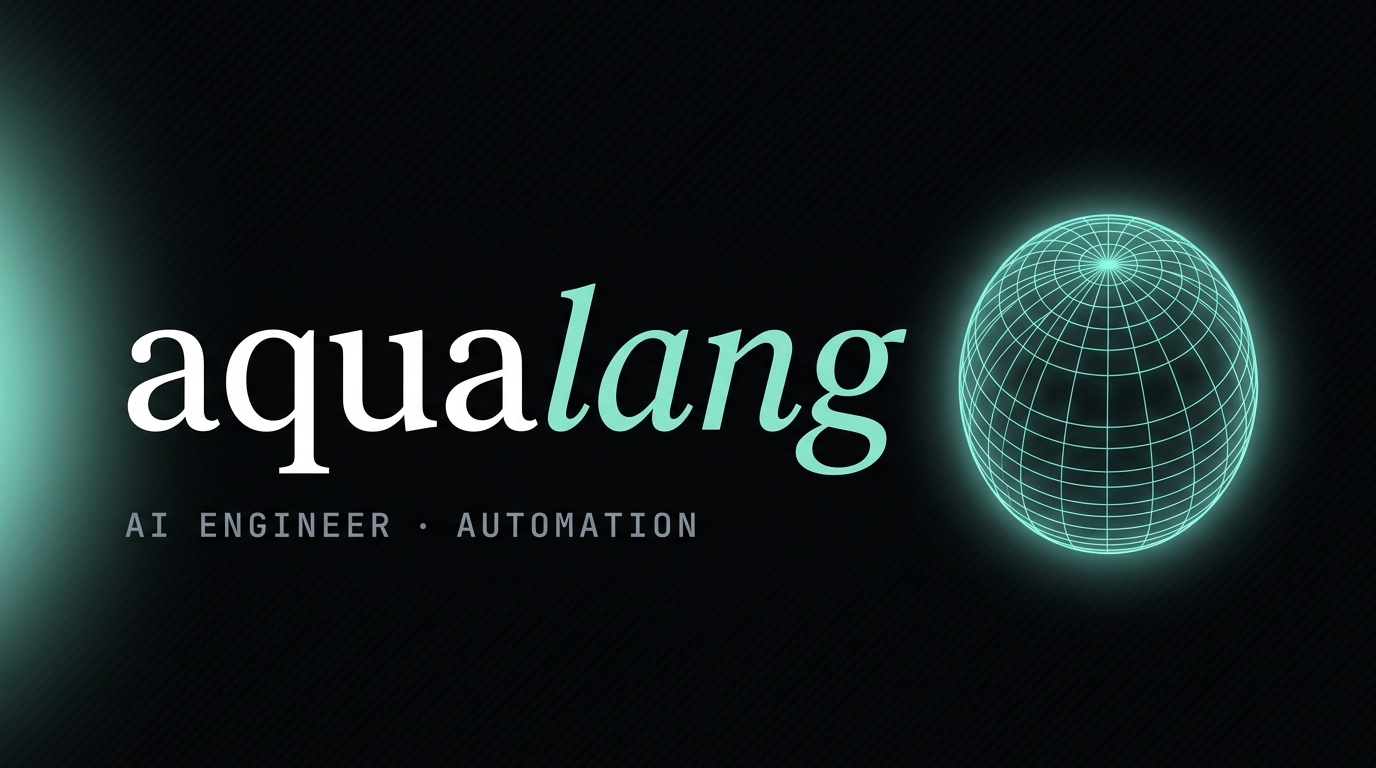
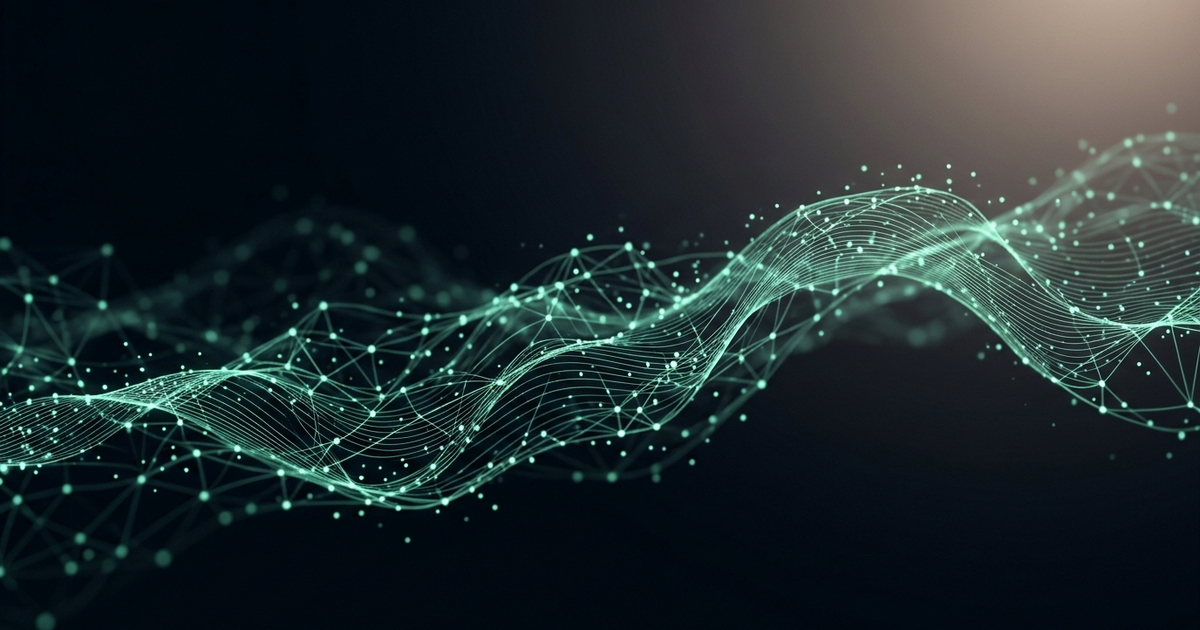
aqualang.pro: OpenRouter migration, security hardening, new assets
- api/chat.js: migrate Perplexity → OpenRouter (claude-3.5-sonnet default)
- vercel.json: add HSTS header
- SEO: hreflang, preconnect, JSON-LD image+knowsAbout
- Regenerate OG image (1200×630) and favicon via deGenAI
- Replace contact form with direct Telegram/email links
- Increase RU/EN touch targets to 44px
- Update sitemap dates

diff --git a/index.html b/index.html
@@ -10,6 +10,9 @@
 <meta name="theme-color" content="#0A0C0F" />
 <meta name="color-scheme" content="dark" />
 <link rel="canonical" href="https://aqualang.pro/" />
+<link rel="alternate" hreflang="ru" href="https://aqualang.pro/" />
+<link rel="alternate" hreflang="en" href="https://aqualang.pro/" />
+<link rel="alternate" hreflang="x-default" href="https://aqualang.pro/" />
 
 <meta property="og:type" content="website" />
 <meta property="og:url" content="https://aqualang.pro/" />
@@ -26,8 +29,9 @@
 <meta name="twitter:description" content="Сайты, ИИ-чаты, ассистенты, автоматизация. Прототип за 48 часов." />
 <meta name="twitter:image" content="https://aqualang.pro/og.png" />
 
-<link rel="icon" href="/favicon.svg" type="image/svg+xml" />
-<link rel="apple-touch-icon" href="/favicon.svg" />
+<link rel="icon" href="/favicon.png" type="image/png" />
+<link rel="apple-touch-icon" href="/apple-touch-icon.png" />
+<link rel="preconnect" href="https://cdn.jsdelivr.net" crossorigin />
 
 <link rel="preload" href="/fonts/lora.css" as="style" onload="this.onload=null;this.rel='stylesheet'">
 <noscript><link rel="stylesheet" href="/fonts/lora.css"></noscript>
@@ -45,7 +49,9 @@
   "url": "https://aqualang.pro",
   "jobTitle": "AI Engineer",
   "description": "ИИ-инженер: сайты под ключ, ИИ-чаты по каталогу, ассистенты с памятью, SMM-автоматизация",
-  "sameAs": ["https://t.me/aqualang"]
+  "image": "https://aqualang.pro/og.png",
+  "sameAs": ["https://t.me/aqualang"],
+  "knowsAbout": ["Веб-разработка", "ИИ-чатботы", "Автоматизация бизнеса", "SMM", "GPT", "Claude"]
 }
 </script>
 </head>
@@ -369,67 +375,16 @@
 
 <section class="contact" id="contact">
   <div class="contact-bg"><div class="big">aqua</div></div>
-  <div class="contact-grid">
+  <div class="contact-grid" style="grid-template-columns:1fr;max-width:900px">
     <div>
-      <div class="mono fade" style="margin-bottom:24px">(06) <span data-ru="Заявка" data-en="Brief">Заявка</span></div>
-      <h2 class="mask-line"><span data-ru="Напишите &nbsp;<i class='it'>письмо.</i>" data-en="Send the &nbsp;<i class='it'>brief.</i>">Напишите <span class="it">письмо.</span></span></h2>
-      <form class="form" id="briefForm" novalidate>
-        <div class="field">
-          <label data-ru="Как обращаться" data-en="Your name">Как обращаться</label>
-          <input type="text" name="name" placeholder="Алексей" autocomplete="name" />
-        </div>
-        <div class="field">
-          <label>Telegram / e-mail</label>
-          <input type="text" name="contact" placeholder="@username" autocomplete="email" required />
-        </div>
-        <div class="field">
-          <label data-ru="Что нужно" data-en="What you need">Что нужно</label>
-          <div class="pills" id="pills">
-            <button type="button" class="pill on" data-ru="Сайт" data-en="Website">Сайт</button>
-            <button type="button" class="pill" data-ru="Чат / бот" data-en="Chat / bot">Чат / бот</button>
-            <button type="button" class="pill" data-ru="Ассистент" data-en="Assistant">Ассистент</button>
-            <button type="button" class="pill" data-ru="Контент (визуал, видео)" data-en="Content (visual, video)">Контент (визуал, видео)</button>
-            <button type="button" class="pill" data-ru="SMM-авто" data-en="SMM auto">SMM-авто</button>
-            <button type="button" class="pill" data-ru="Что-то ещё" data-en="Other">Что-то ещё</button>
-          </div>
-        </div>
-        <div class="field">
-          <label data-ru="Кратко о задаче" data-en="Brief">Кратко о задаче</label>
-          <textarea name="brief" placeholder="..."></textarea>
-        </div>
-        <label class="consent">
-          <input type="checkbox" name="consent" required />
-          <span data-ru="Даю <a href='/consent' target='_blank' rel='noopener'>согласие на обработку</a> моих данных в соответствии с <a href='/privacy' target='_blank' rel='noopener'>политикой</a>" data-en="I give <a href='/consent' target='_blank' rel='noopener'>consent to data processing</a> in accordance with the <a href='/privacy' target='_blank' rel='noopener'>policy</a>">Даю <a href="/consent" target="_blank" rel="noopener">согласие на обработку</a> моих данных в соответствии с <a href="/privacy" target="_blank" rel="noopener">политикой</a></span>
-        </label>
-        <button type="submit" class="submit" data-magnetic data-hover="отправить">
-          <span data-ru="Отправить" data-en="Send">Отправить</span>
-          <span class="arr">→</span>
-        </button>
-        <div class="form-status" aria-live="polite"></div>
-      </form>
-    </div>
-    <div class="contact-side">
-      <div>
-        <div class="row" style="margin-bottom:32px">
-          <div class="l" data-ru="Прямой контакт" data-en="Direct">Прямой контакт</div>
-          <div class="v">@<span class="it">aqualang</span></div>
-        </div>
-        <div class="row" style="margin-bottom:32px">
-          <div class="l" data-ru="Почта" data-en="Email">Почта</div>
-          <a class="v" href="mailto:[email redacted]">aqualangpro@<span class="it">gmail</span>.com</a>
-        </div>
-        <div class="row">
-          <div class="l" data-ru="Время ответа" data-en="Response time">Время ответа</div>
-          <div class="v"><span class="it">≈</span> 1–4 ч</div>
-        </div>
-        <div class="socials" style="margin-top:32px">
-          <a href="https://t.me/aqualang" target="_blank" rel="noopener" data-magnetic>Telegram ↗</a>
-        </div>
+      <div class="mono fade" style="margin-bottom:24px">(06) <span data-ru="Контакт" data-en="Contact">Контакт</span></div>
+      <h2 class="mask-line"><span data-ru="Напишите &nbsp;<i class='it'>мне.</i>" data-en="Get in &nbsp;<i class='it'>touch.</i>">Напишите <span class="it">мне.</span></span></h2>
+      <div style="margin-top:48px;display:flex;flex-direction:column;gap:20px;align-items:flex-start">
+        <a href="https://t.me/aqualang" target="_blank" rel="noopener" class="hero-cta" data-magnetic>Telegram ↗</a>
+        <a href="mailto:[email redacted]" class="hero-cta" data-magnetic>aqualangpro@<span class="it">gmail</span>.com</a>
       </div>
-      <div class="clock">
-        <div><span class="dot"></span> <span data-ru="на связи" data-en="online">на связи</span></div>
-        <div id="clock2">— — : — —</div>
-        <div>MSK · UTC+3</div>
+      <div style="margin-top:32px;color:var(--fg-3);font-size:14px;line-height:1.6">
+        <span data-ru="Время ответа ≈ 1–4 часа. MSK · UTC+3" data-en="Reply time ≈ 1–4 hours. MSK · UTC+3">Время ответа ≈ 1–4 часа. MSK · UTC+3</span>
       </div>
     </div>
   </div>
@@ -485,6 +440,6 @@
 </script>
 <script src="/scripts/main.js" defer></script>
 <script src="/scripts/chat-widget.js" defer></script>
-<script src="/scripts/form.js" defer></script>
+
 </body>
 </html>

diff --git a/api/chat.js b/api/chat.js
@@ -56,9 +56,9 @@ export default async function handler(req, res) {
     return;
   }
 
-  const apiKey = process.env.PERPLEXITY_API_KEY;
+  const apiKey = process.env.OPENROUTER_API_KEY;
   if (!apiKey) {
-    res.status(500).json({ error: 'PERPLEXITY_API_KEY not set' });
+    res.status(500).json({ error: 'OPENROUTER_API_KEY not set' });
     return;
   }
 
@@ -68,21 +68,23 @@ export default async function handler(req, res) {
     .map(m => ({ role: m.role, content: m.content.slice(0, 2000) }));
 
   try {
-    const r = await fetch('https://api.perplexity.ai/chat/completions', {
+    const r = await fetch('https://openrouter.ai/api/v1/chat/completions', {
       method: 'POST',
       headers: {
         Authorization: `Bearer ${apiKey}`,
-        'Content-Type': 'application/json'
+        'Content-Type': 'application/json',
+        'HTTP-Referer': 'https://aqualang.pro',
+        'X-Title': 'aqualang.pro'
       },
       body: JSON.stringify({
-        model: 'sonar-pro',
+        model: process.env.OPENROUTER_MODEL || 'anthropic/claude-3.5-sonnet',
         messages: [{ role: 'system', content: SYSTEM_PROMPT }, ...safeMessages]
       })
     });
 
     if (!r.ok) {
       const txt = await r.text();
-      console.error('perplexity', r.status, txt);
+      console.error('openrouter', r.status, txt);
       res.status(502).json({ error: 'AI request failed' });
       return;
     }

diff --git a/404.html b/404.html
@@ -6,7 +6,7 @@
 <title>404 — страница не найдена · aqualang</title>
 <meta name="robots" content="noindex" />
 <meta name="theme-color" content="#0A0C0F" />
-<link rel="icon" href="/favicon.svg" type="image/svg+xml" />
+<link rel="icon" href="/favicon.png" type="image/png" />
 <link rel="stylesheet" href="/fonts/lora.css">
 <link rel="stylesheet" href="/styles/base.css" />
 <style>

diff --git a/consent.html b/consent.html
@@ -8,7 +8,7 @@
 <meta name="robots" content="noindex,follow" />
 <meta name="theme-color" content="#0A0C0F" />
 <link rel="canonical" href="https://aqualang.pro/consent" />
-<link rel="icon" href="/favicon.svg" type="image/svg+xml" />
+<link rel="icon" href="/favicon.png" type="image/png" />
 <link rel="stylesheet" href="/fonts/lora.css">
 <link rel="stylesheet" href="/styles/base.css" />
 <style>

diff --git a/privacy.html b/privacy.html
@@ -8,7 +8,7 @@
 <meta name="robots" content="noindex,follow" />
 <meta name="theme-color" content="#0A0C0F" />
 <link rel="canonical" href="https://aqualang.pro/privacy" />
-<link rel="icon" href="/favicon.svg" type="image/svg+xml" />
+<link rel="icon" href="/favicon.png" type="image/png" />
 <link rel="stylesheet" href="/fonts/lora.css">
 <link rel="stylesheet" href="/styles/base.css" />
 <style>

diff --git a/styles/layout.css b/styles/layout.css
@@ -21,7 +21,7 @@ nav.top .links a::after{content:"";position:absolute;left:0;right:0;bottom:-4px;
 nav.top .links a:hover::after{transform:scaleX(1)}
 nav.top .right{display:flex;gap:18px;align-items:center}
 nav.top .lang{display:flex;gap:6px;font-family:ui-monospace,"Cascadia Mono",Menlo,monospace;font-size:11px;color:#fff}
-nav.top .lang button{padding:4px 8px;opacity:.5;border-radius:99px}
+nav.top .lang button{padding:10px 16px;opacity:.5;border-radius:99px;min-width:44px;min-height:44px;display:inline-flex;align-items:center;justify-content:center}
 nav.top .lang button.on{opacity:1;border:1px solid rgba(255,255,255,.4)}
 nav.top .cta{padding:10px 18px;border-radius:99px;background:var(--mint);color:var(--ink);font-family:ui-monospace,"Cascadia Mono",Menlo,monospace;font-size:11px;letter-spacing:.1em;text-transform:uppercase;transition:transform .3s}
 